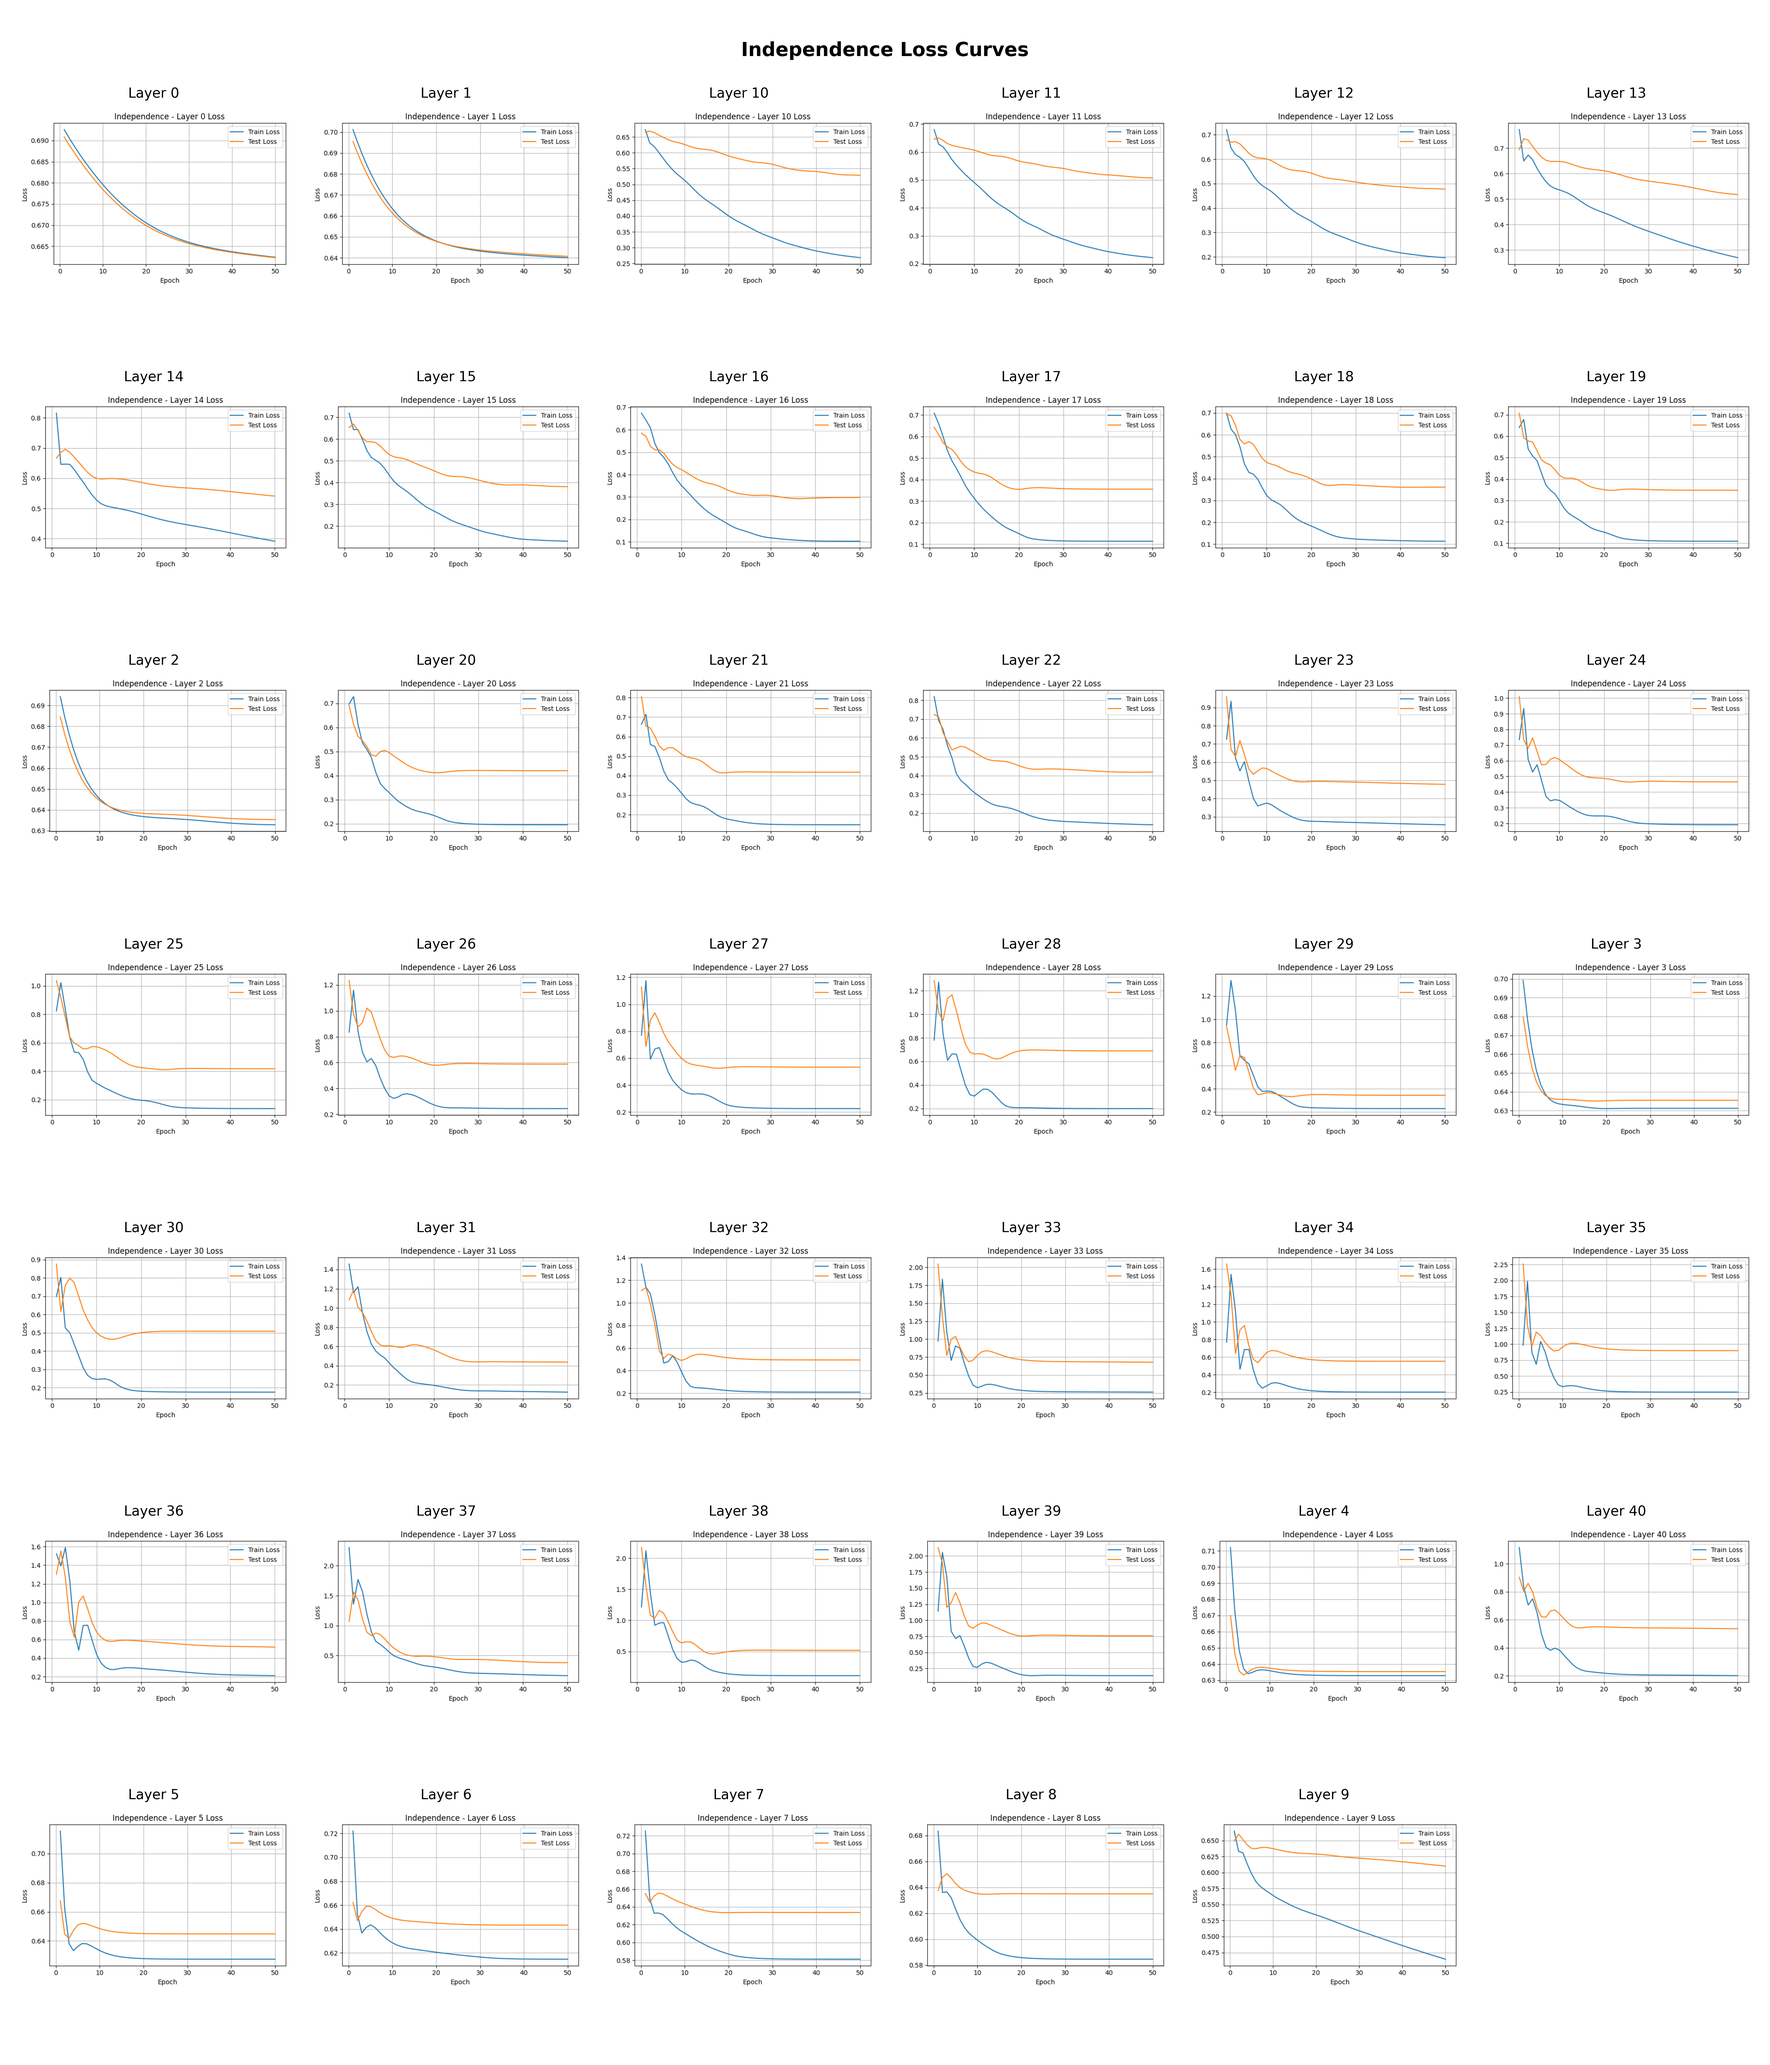
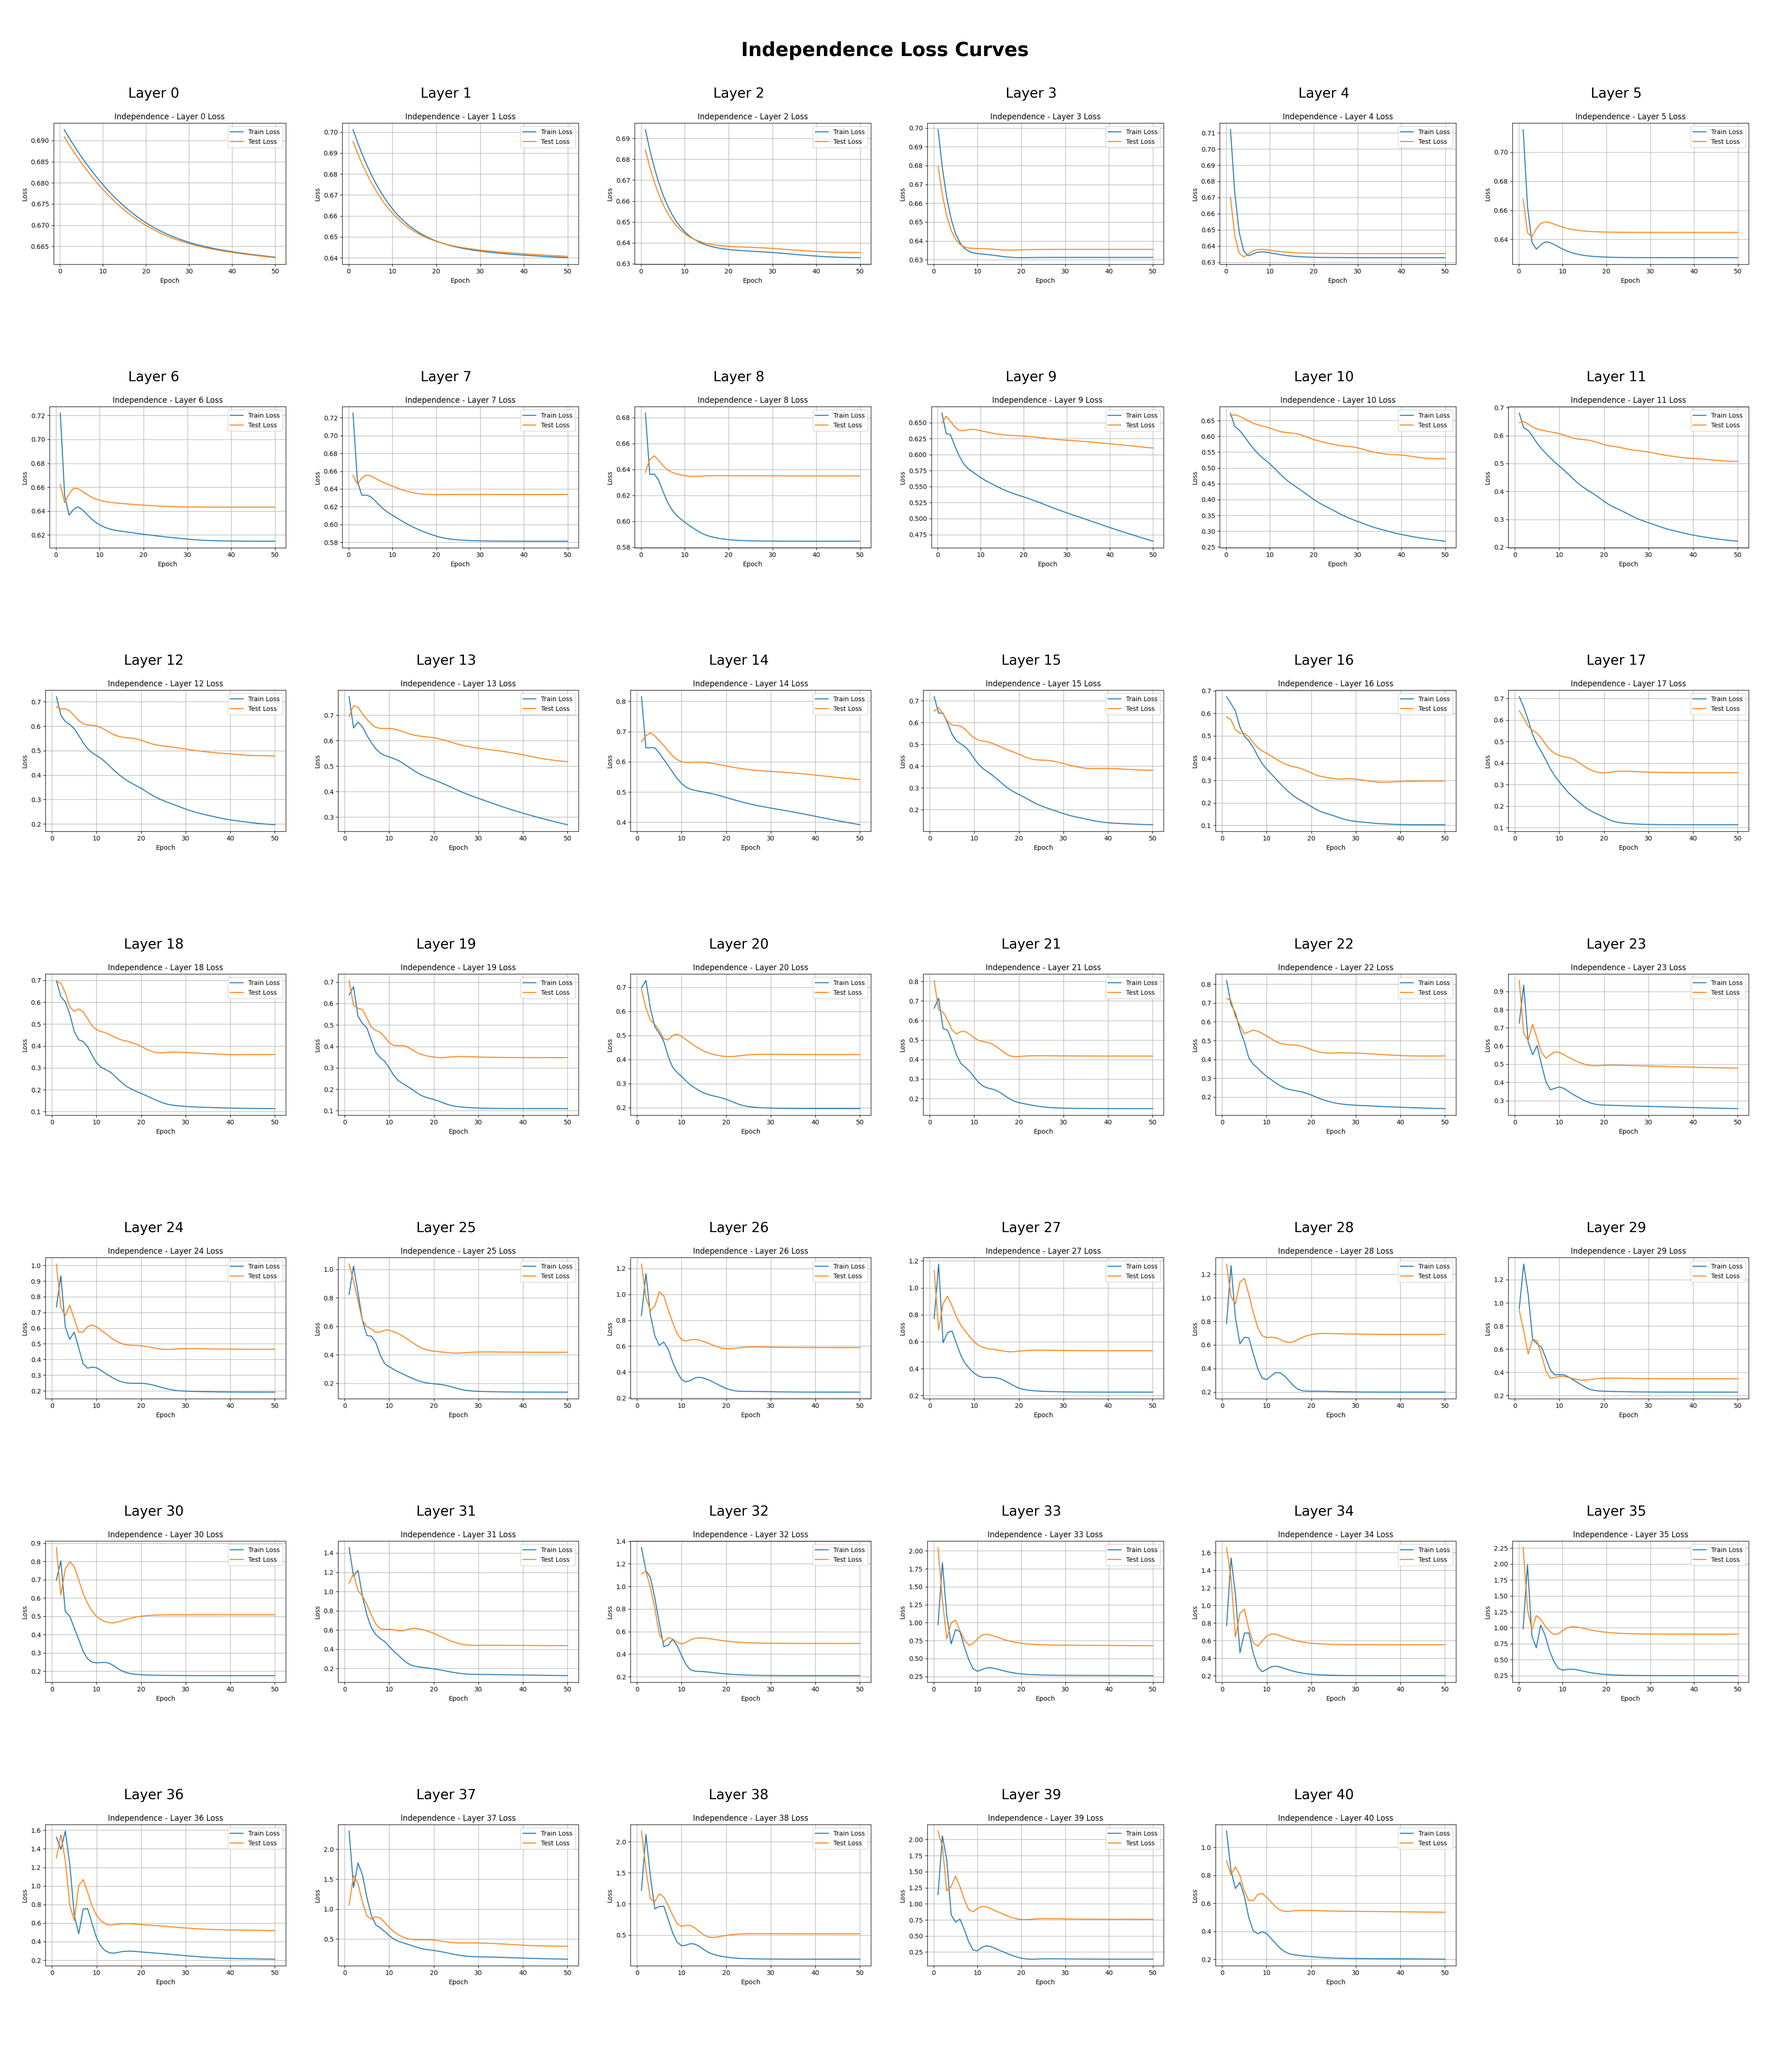
add the combined loss

diff --git a/train_behavioral_traits.py b/train_behavioral_traits.py
@@ -52,6 +52,7 @@ import time
 import pickle
 import sklearn.model_selection
 import numpy as np
+import atexit
 
 tic, toc = (time.time, time.time)
 
@@ -146,6 +147,38 @@ output_root = os.path.join("output", run_timestamp)
 checkpoint_dir = os.path.join(output_root, "probe_checkpoints", "behavioral_probes")
 os.makedirs(checkpoint_dir, exist_ok=True)
 
+class _TeeIO:
+    def __init__(self, *streams):
+        self.streams = streams
+    def write(self, data):
+        for s in self.streams:
+            s.write(data)
+            s.flush()
+    def flush(self):
+        for s in self.streams:
+            s.flush()
+
+# Mirror all prints (stdout/stderr) to a log file in the output folder
+_orig_stdout, _orig_stderr = sys.stdout, sys.stderr
+_log_path = os.path.join(output_root, "train_behavioral_traits.log")
+_log_file = open(_log_path, "a", buffering=1)
+sys.stdout = _TeeIO(sys.stdout, _log_file)
+sys.stderr = _TeeIO(sys.stderr, _log_file)
+
+def _restore_streams_and_close():
+    try:
+        sys.stdout = _orig_stdout
+        sys.stderr = _orig_stderr
+    except Exception:
+        pass
+    try:
+        _log_file.flush()
+        _log_file.close()
+    except Exception:
+        pass
+
+atexit.register(_restore_streams_and_close)
+print(f"[logging] Mirroring stdout/stderr to {_log_path}")
 
 # ## Training Loop for Behavioral Traits
 # 

diff --git a/combine_loss_plots.py b/combine_loss_plots.py
@@ -44,7 +44,16 @@ def build_parser() -> argparse.ArgumentParser:
 
 def combine_trait_plots(trait: str, directory: Path, columns: int) -> None:
     pattern = f"loss_curve_{trait}_*_layer_*.png"
-    files = sorted(directory.glob(pattern), key=lambda p: p.stem)
+    def layer_index(path: Path) -> int:
+        # Expect "..._layer_<num>.png"; extract <num> robustly
+        stem = path.stem
+        if "_layer_" in stem:
+            try:
+                return int(stem.split("_layer_")[-1])
+            except ValueError:
+                return float("inf")
+        return float("inf")
+    files = sorted(directory.glob(pattern), key=layer_index)
 
     if not files:
         print(f"[WARN] No loss curve PNGs found for trait '{trait}' in {directory}")
